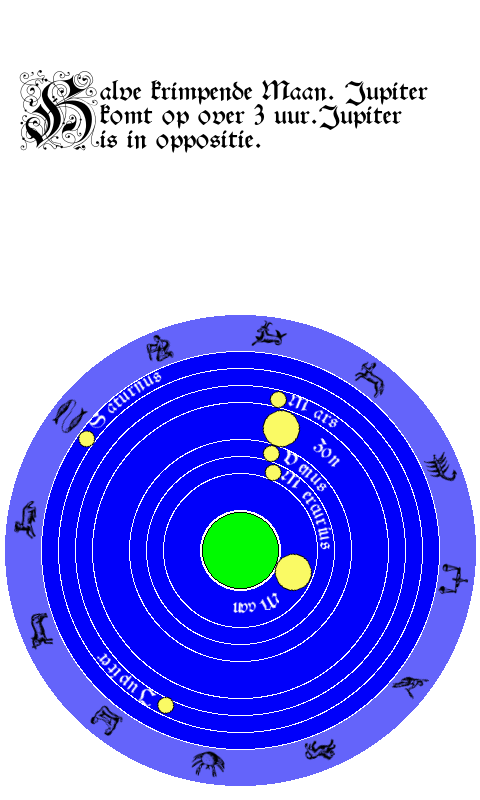
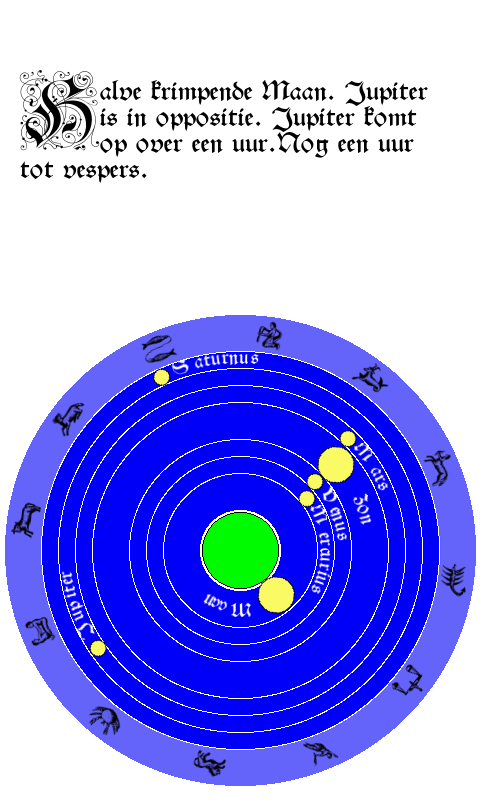
Tijd tot volgend gebed. Alleen nog lauden en vespers, de rest volgt.

diff --git a/ptolemeus.py b/ptolemeus.py
@@ -38,6 +38,9 @@ schwabacher28 = ImageFont.truetype("lib/yswab.otf",size=28)
 init          = ImageFont.truetype("lib/Yinit.otf",size=80)
 astrologicus  = ImageFont.truetype("lib/Astrologicus.ttf",size=40)
 
+# Uren
+uurnaam = {1:"een",2:"twee",3:"drie",4:"vier",5:"vijf",6:"zes",
+           7:"zeven",8:"acht",9:"negen",10:"tien",11:"elf",12:"twaalf"}
 # Sterrenbeelden vanaf lentepunt met icoon uit Astrologicus font
 sterrenbeelden = {'Ram':'A','Stier':'B','Tweelingen':'C','Krab':'D',
                   'Leeuw':'E','Maagd':'F','Weegschaal':'G','Kreeft':'H',
@@ -108,6 +111,7 @@ def teken_dierenriem(straal,phi,d):
 # Teken de beschrijving bovenaan aan de pagina.
 def beschrijving(regels):
     regellengte = 26
+    regelafstand = 26
     initiaal = regels[0]
     woorden = regels[1:].split()
     tekstblok = Image.new("RGBA", (480,400), (0, 0, 0, 0))
@@ -118,16 +122,15 @@ def beschrijving(regels):
     inspring = 100
     for woord in woorden:
         zin = zin + woord + ' '
+        if (regelnummer > 2): inspring = 20
         if (len(zin) > regellengte):
-            if (regelnummer > 2):
-                inspring = 20
             regel = ImageDraw.Draw(tekstblok)
-            regel.text((inspring, 100+regelnummer*24), zin, anchor="ls",
+            regel.text((inspring, 100+regelnummer*regelafstand), zin, anchor="ls",
                        fill=(0,0,0), font=schwabacher28)
             zin = ''
             regelnummer += 1
     regel = ImageDraw.Draw(tekstblok)
-    regel.text((inspring, 100+regelnummer*24), zin, anchor="ls",
+    regel.text((inspring, 100+regelnummer*regelafstand), zin, anchor="ls",
                fill=(0,0,0), font=schwabacher28)
     mask = tekstblok.split()[3]
     ikoon.paste(tekstblok,(0,0,480,400),mask)
@@ -145,6 +148,15 @@ def maanfase(f):
     if (fasehoek < 285.0 and fasehoek > 255.0) : fasenaam = "Halve krimpende Maan. "
     if (fasehoek < 345.0 and fasehoek > 285.0) : fasenaam = "Laatste kwartier. "
     return fasenaam
+
+#
+def getijden(op,onder,t):
+    top = int(op-t+0.5)
+    tonder = int(onder-t+0.5)
+    getijde = ""
+    if (t > op and t < onder): getijde = "Nog "+uurnaam[tonder]+" uur tot vespers. "
+    if (t > onder): getijde = "Nog "+uurnaam[top]+" uur tot lauden. "
+    return getijde
 
 # Doorkomst, opkomst en ondergangstijden
 def doorkomst(ra, dc):
@@ -228,10 +240,10 @@ r += 1
 
 # Eerst hebben we de lengte en afstand van de Zon van de Aarde nodig
 print ('Zon')
-epilengte = cirkelbaan(jd,element['Zon']['T'],
+zonlengte = cirkelbaan(jd,element['Zon']['T'],
                         element['Zon']['a'],element['Zon']['b'],element['Zon']['e'],
                         element['Zon']['lengteperi'],element['Zon']['epochperi'])
-epistraal = (element['Zon']['a']+element['Zon']['b'])/2.0
+zonstraal = (element['Zon']['a']+element['Zon']['b'])/2.0
 # Bereken posities van de planeten en teken de sfeer in
 tekst = ""
 for naam in planeet:
@@ -240,20 +252,19 @@ for naam in planeet:
     print (naam)
          
     if (naam == 'Zon'):
-        lengte = epilengte
-        w = 36
+        lengte = zonlengte
     elif (naam == 'Maan'):
         lengte = cirkelbaan(jd,element[naam]['T'],
                             element[naam]['a'],element[naam]['b'],element[naam]['e'],
                             element[naam]['lengteperi'],element[naam]['epochperi'])
-        tekst += maanfase((lengte-epilengte)%360)
+        tekst += maanfase((lengte-zonlengte)%360)
     else:
         lengte = epicykel(jd,element[naam]['T'],
                           element[naam]['a'],element[naam]['b'],element[naam]['e'],
                           element[naam]['lengteperi'],element[naam]['epochperi'],
-                          epistraal,epilengte)
+                          zonstraal,zonlengte)
         w = 16
-    r += w+1;
+    r += w+1; # straal van de sfeer verhogen met de grootte van de planeet plus 1
     teken_planeet(r,lengte,LMST*360,w,naam)
    
     klimming = math.degrees(math.atan2(math.sin(math.radians(lengte)) *
@@ -262,24 +273,30 @@ for naam in planeet:
     declinatie = math.degrees(math.asin(math.sin(math.radians(ashelling)) *
                                         math.sin(math.radians(lengte))))
     transit, op, onder = doorkomst(klimming,declinatie)
-    # print ('   transit',int(transit),(transit*60)%60)
-    print ('   opkomst',int(op),(op*60)%60)
-    # print ('   ondergang',int(onder),(op*60)%60)
-
-    # Tijd tot opkomst wordt getoond vanaf 6 uur voor opkomst
-    utop = int(op-lokaletijd*24+0.5)
-    if (utop > 0 and utop < 7):
-        tekst += naam
-        tekst += " komt op over "
-        tekst += str(utop)
-        tekst += " uur."
-        # +" komt op over "+utop+" uur. "
+    print ('   transit',int(transit),int((transit*60)%60))
+    print ('   opkomst',int(op),int((op*60)%60))
+    print ('   ondergang',int(onder),int((op*60)%60))
+    if (naam == 'Zon'):
+        zonop = op
+        zononder = onder
 
     # Hoek van de planeet ten opzichte van de zon
-    rlengte = (lengte-epilengte)%360.0
+    rlengte = (lengte-zonlengte)%360.0
     if (rlengte > 170.0 and rlengte < 190.0):
         tekst += naam
         tekst += " is in oppositie. "
+        
+    # Tijd tot opkomst wordt getoond vanaf 12 uur voor opkomst en
+    # als de planeet meer dan een uur van de Zon staat
+    utop = int(op-lokaletijd*24+0.5)
+    if (utop > 0 and utop < 12 and rlengte > 15.0 and rlengte < 345.0 and naam != "Zon"):
+        tekst += naam
+        tekst += " komt op over "
+        tekst += uurnaam[utop]
+        tekst += " uur."
+
+# Tijd tot het volgende gebed, nu nog gebaseerd op lokale tijd 
+tekst += getijden(zonop,zononder,lokaletijd*24.0)
 
 # Teken de dierenriem
 w = 36
